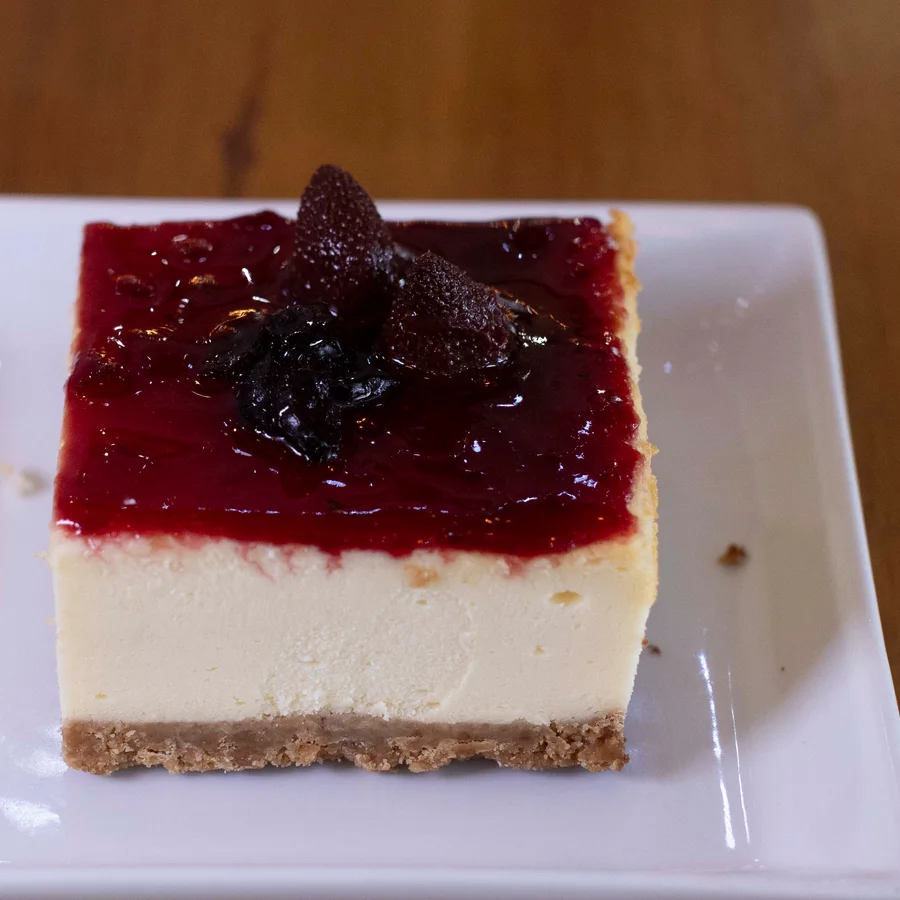
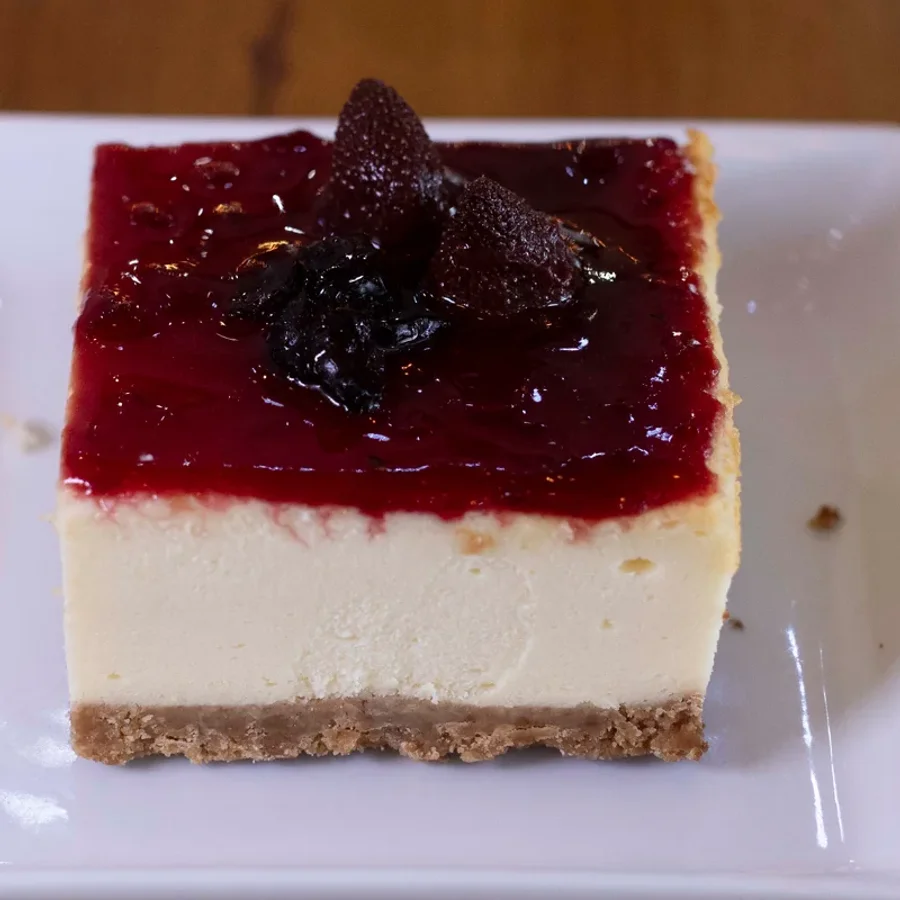
Zoom in brownie image and update pasteleria photos
Add imageScale support to pasteleria card images; apply 1.8x zoom to Brownie.
Also commit updated Brownie, Cheesecake-Porcion, and TortaMatilda photos.

diff --git a/src/data/pasteleria.js b/src/data/pasteleria.js
@@ -68,11 +68,13 @@ export const postres = [
     name: "Torta Matilda",
     description: "Torta de chocolate húmeda con relleno de dulce de leche y cobertura de ganache.",
     photo: "/photos/pasteleria/TortaMatilda.webp",
+    objectPosition: "center 78%",
   },
   {
     name: "Brownie",
     description: "Brownie de chocolate clásico.",
     photo: "/photos/pasteleria/Brownie.webp",
+    imageScale: "1.8",
   },
   {
     name: "Brownie Patagónico",
